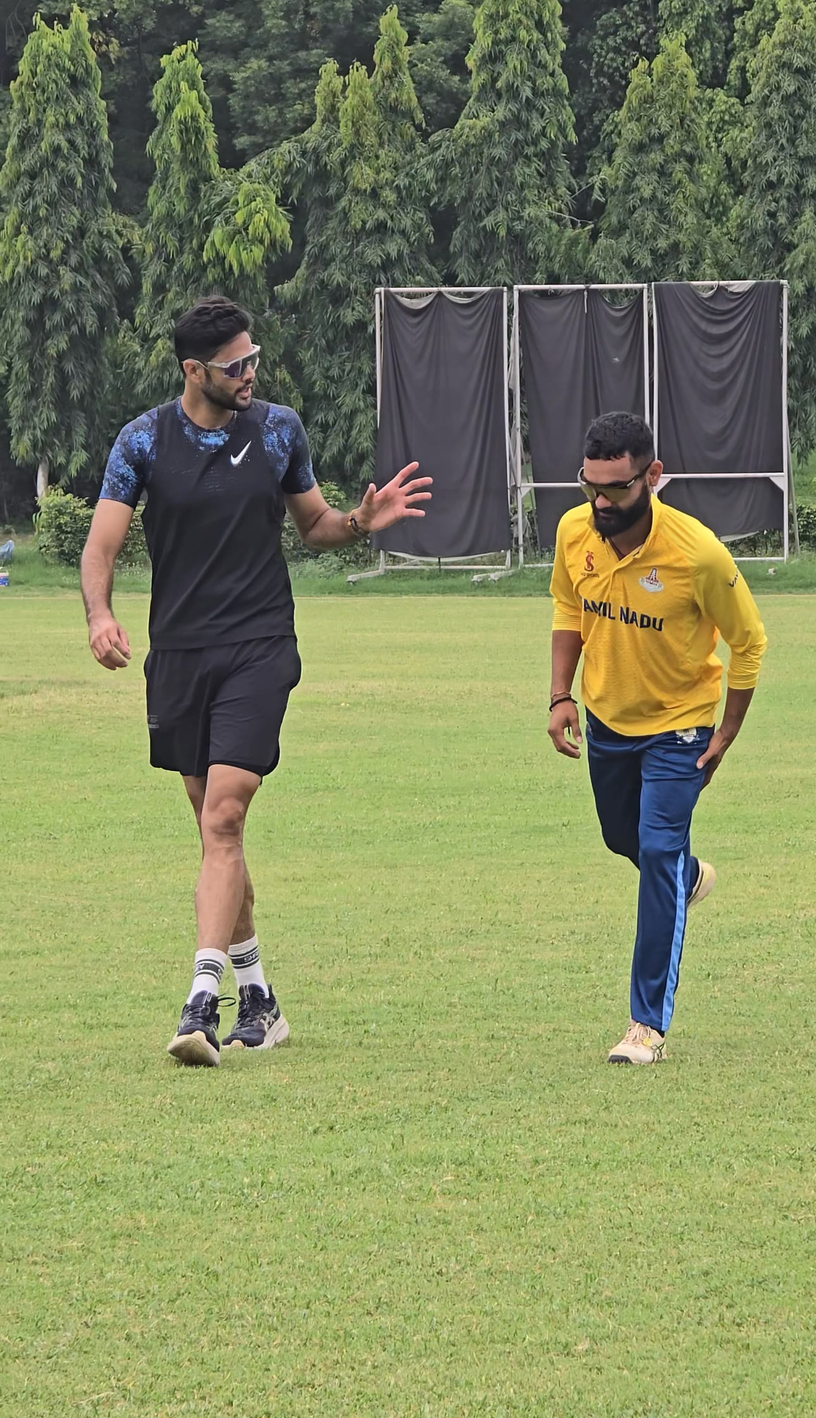
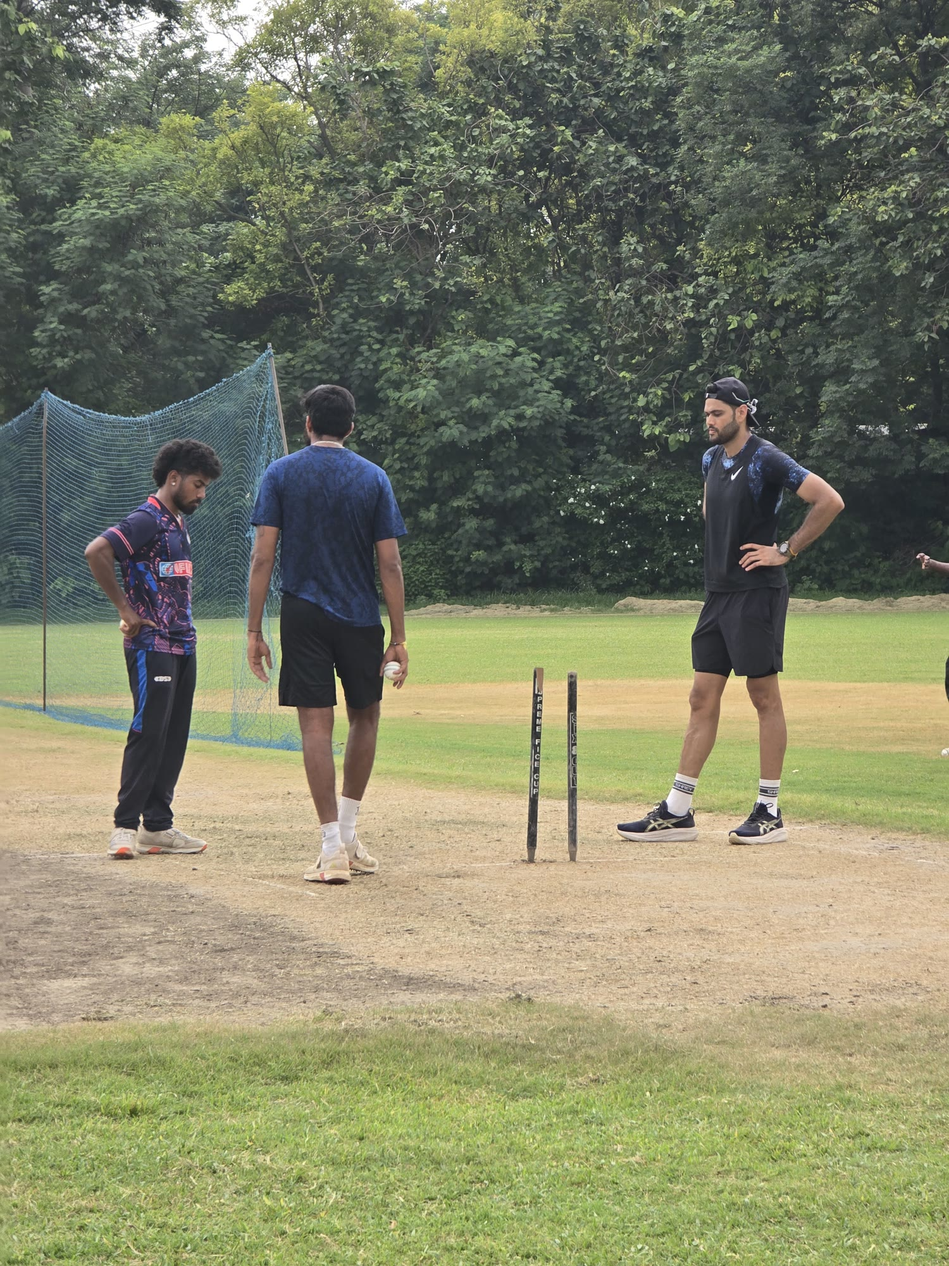
Enable live checkout and contact email delivery

diff --git a/components/Contact.tsx b/components/Contact.tsx
@@ -27,7 +27,8 @@ const details = [
 
 export default function Contact() {
   const sectionRef = useRef<HTMLElement>(null);
-  const [status, setStatus] = useState<"idle" | "sent">("idle");
+  const [status, setStatus] = useState<"idle" | "sending" | "sent" | "error">("idle");
+  const [feedback, setFeedback] = useState("");
   const [form, setForm] = useState({ name: "", email: "", message: "" });
 
   useEffect(() => {
@@ -51,11 +52,40 @@ export default function Contact() {
     return () => ctx.revert();
   }, []);
 
-  const handleSubmit = (e: React.FormEvent) => {
+  const handleSubmit = async (e: React.FormEvent<HTMLFormElement>) => {
     e.preventDefault();
-    // Wire this up to your form endpoint / email service of choice.
-    setStatus("sent");
-    setForm({ name: "", email: "", message: "" });
+    const formElement = e.currentTarget;
+    setStatus("sending");
+    setFeedback("Sending your message...");
+
+    try {
+      const formData = new FormData(formElement);
+      const response = await fetch("/api/contact", {
+        method: "POST",
+        headers: { "Content-Type": "application/json" },
+        body: JSON.stringify({
+          ...form,
+          website: String(formData.get("website") ?? ""),
+        }),
+      });
+      const result = (await response.json()) as { error?: string };
+
+      if (!response.ok) {
+        throw new Error(result.error || "Unable to send your message.");
+      }
+
+      setStatus("sent");
+      setFeedback("Thanks — your message has been sent. I'll get back to you shortly.");
+      setForm({ name: "", email: "", message: "" });
+      formElement.reset();
+    } catch (error) {
+      setStatus("error");
+      setFeedback(
+        error instanceof Error
+          ? error.message
+          : "Unable to send your message. Please try again."
+      );
+    }
   };
 
   return (
@@ -107,6 +137,14 @@ export default function Contact() {
           onSubmit={handleSubmit}
           className="flex flex-col gap-6"
         >
+          <input
+            type="text"
+            name="website"
+            tabIndex={-1}
+            autoComplete="off"
+            className="hidden"
+            aria-hidden="true"
+          />
           <div className="flex flex-col gap-2">
             <label htmlFor="name" className="font-body text-xs font-bold uppercase tracking-widest text-steel">
               Name
@@ -153,23 +191,25 @@ export default function Contact() {
 
           <motion.button
             type="submit"
+            disabled={status === "sending"}
             whileHover={{ scale: 1.03 }}
             whileTap={{ scale: 0.97 }}
-            className="mt-4 w-fit rounded-sm bg-bolt px-10 py-4 font-body text-sm font-bold uppercase tracking-widest text-ink"
+            className="mt-4 w-fit rounded-sm bg-bolt px-10 py-4 font-body text-sm font-bold uppercase tracking-widest text-ink disabled:cursor-not-allowed disabled:opacity-60"
           >
-            Send Message
+            {status === "sending" ? "Sending..." : "Send Message"}
           </motion.button>
 
           <AnimatePresence>
-            {status === "sent" && (
+            {feedback && (
               <motion.p
+                key={status}
+                role="status"
                 initial={{ opacity: 0, y: 10 }}
                 animate={{ opacity: 1, y: 0 }}
                 exit={{ opacity: 0 }}
-                className="font-body text-sm text-bolt"
+                className={`font-body text-sm ${status === "error" ? "text-red-400" : "text-bolt"}`}
               >
-                Thanks — your message has been sent. I'll get back to you
-                shortly.
+                {feedback}
               </motion.p>
             )}
           </AnimatePresence>

diff --git a/app/api/contact/route.ts b/app/api/contact/route.ts
@@ -1,0 +1,92 @@
+import { NextResponse } from "next/server";
+import { Resend } from "resend";
+
+export const runtime = "nodejs";
+
+const emailPattern = /^[^\s@]+@[^\s@]+\.[^\s@]+$/;
+
+function escapeHtml(value: string) {
+  return value.replace(
+    /[&<>"']/g,
+    (character) =>
+      ({
+        "&": "&amp;",
+        "<": "&lt;",
+        ">": "&gt;",
+        '"': "&quot;",
+        "'": "&#039;",
+      })[character] || character
+  );
+}
+
+export async function POST(request: Request) {
+  try {
+    const body = (await request.json()) as {
+      name?: string;
+      email?: string;
+      message?: string;
+      website?: string;
+    };
+
+    // A hidden field catches simple form bots without affecting real visitors.
+    if (body.website) {
+      return NextResponse.json({ sent: true });
+    }
+
+    const name = body.name?.trim();
+    const email = body.email?.trim().toLowerCase();
+    const message = body.message?.trim();
+
+    if (!name || name.length < 2 || name.length > 80) {
+      return NextResponse.json({ error: "Please enter a valid name." }, { status: 400 });
+    }
+    if (!email || !emailPattern.test(email) || email.length > 254) {
+      return NextResponse.json(
+        { error: "Please enter a valid email address." },
+        { status: 400 }
+      );
+    }
+    if (!message || message.length < 10 || message.length > 3000) {
+      return NextResponse.json(
+        { error: "Please enter a message between 10 and 3,000 characters." },
+        { status: 400 }
+      );
+    }
+
+    const resendApiKey = process.env.RESEND_API_KEY;
+    const emailFrom =
+      process.env.PROGRAM_EMAIL_FROM ??
+      "Be An Athlete <programs@beanathlete.in>";
+    const emailTo =
+      process.env.CONTACT_EMAIL_TO ?? "hiteshjangid1201@gmail.com";
+
+    if (!resendApiKey) {
+      return NextResponse.json(
+        { error: "Email delivery is temporarily unavailable." },
+        { status: 503 }
+      );
+    }
+
+    const resend = new Resend(resendApiKey);
+    const { error } = await resend.emails.send({
+      from: emailFrom,
+      to: [emailTo],
+      replyTo: email,
+      subject: `Website enquiry from ${name}`,
+      text: `New website enquiry\n\nName: ${name}\nEmail: ${email}\n\nMessage:\n${message}`,
+      html: `<h2>New website enquiry</h2><p><strong>Name:</strong> ${escapeHtml(name)}</p><p><strong>Email:</strong> ${escapeHtml(email)}</p><p><strong>Message:</strong></p><p>${escapeHtml(message).replace(/\n/g, "<br />")}</p>`,
+    });
+
+    if (error) {
+      throw new Error(`Resend delivery failed: ${error.message}`);
+    }
+
+    return NextResponse.json({ sent: true });
+  } catch (error) {
+    console.error("Unable to deliver contact enquiry", error);
+    return NextResponse.json(
+      { error: "Unable to send your message right now. Please try again." },
+      { status: 500 }
+    );
+  }
+}
